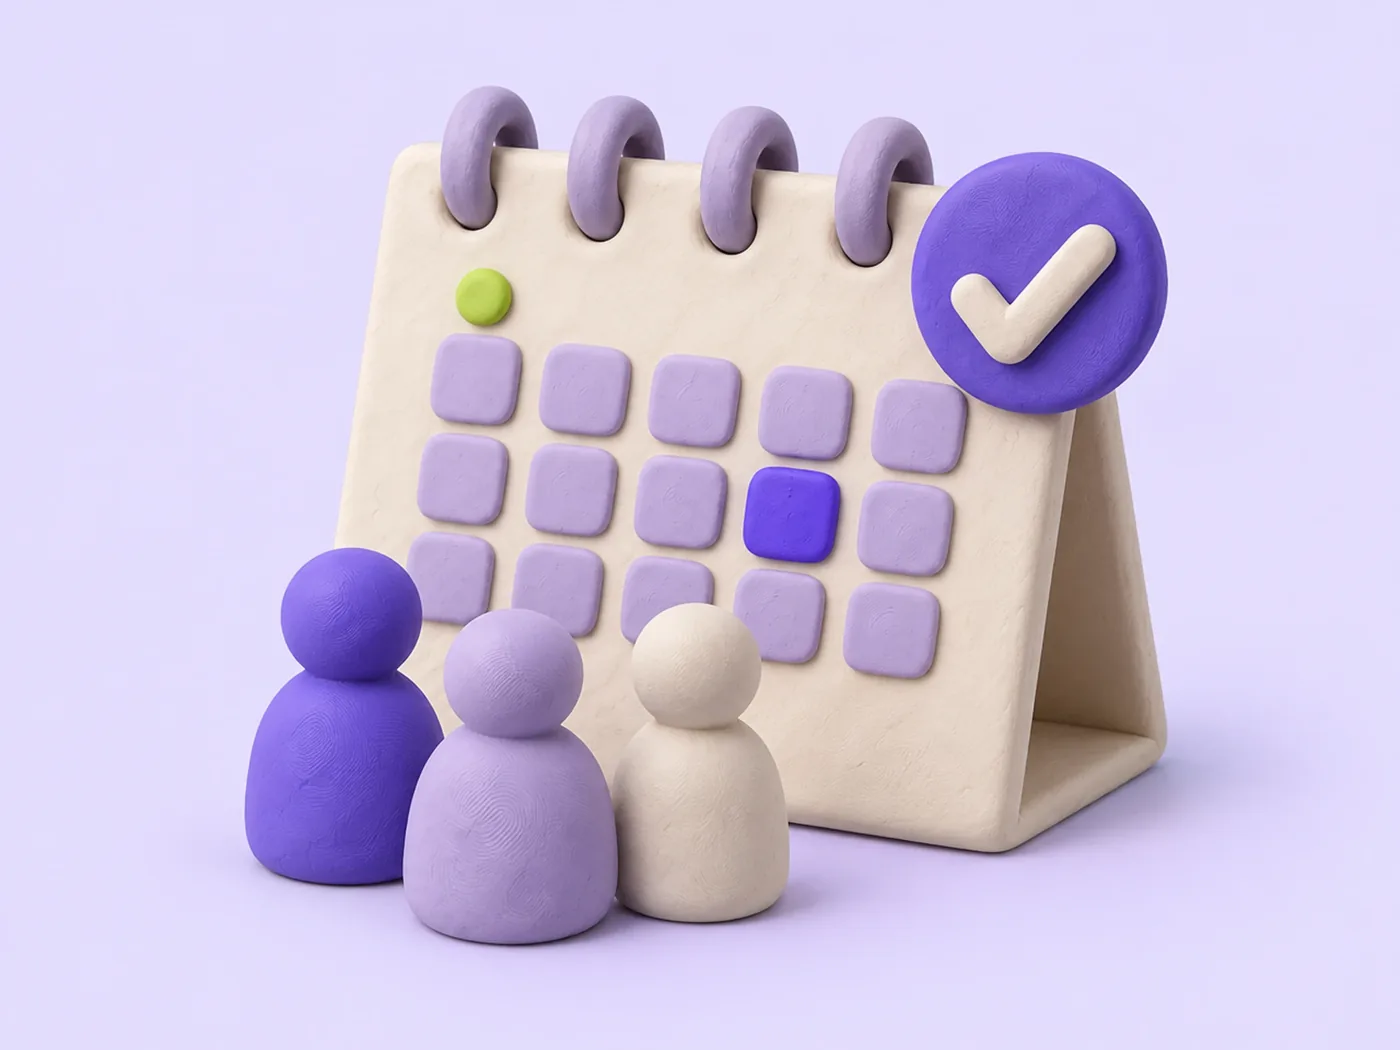
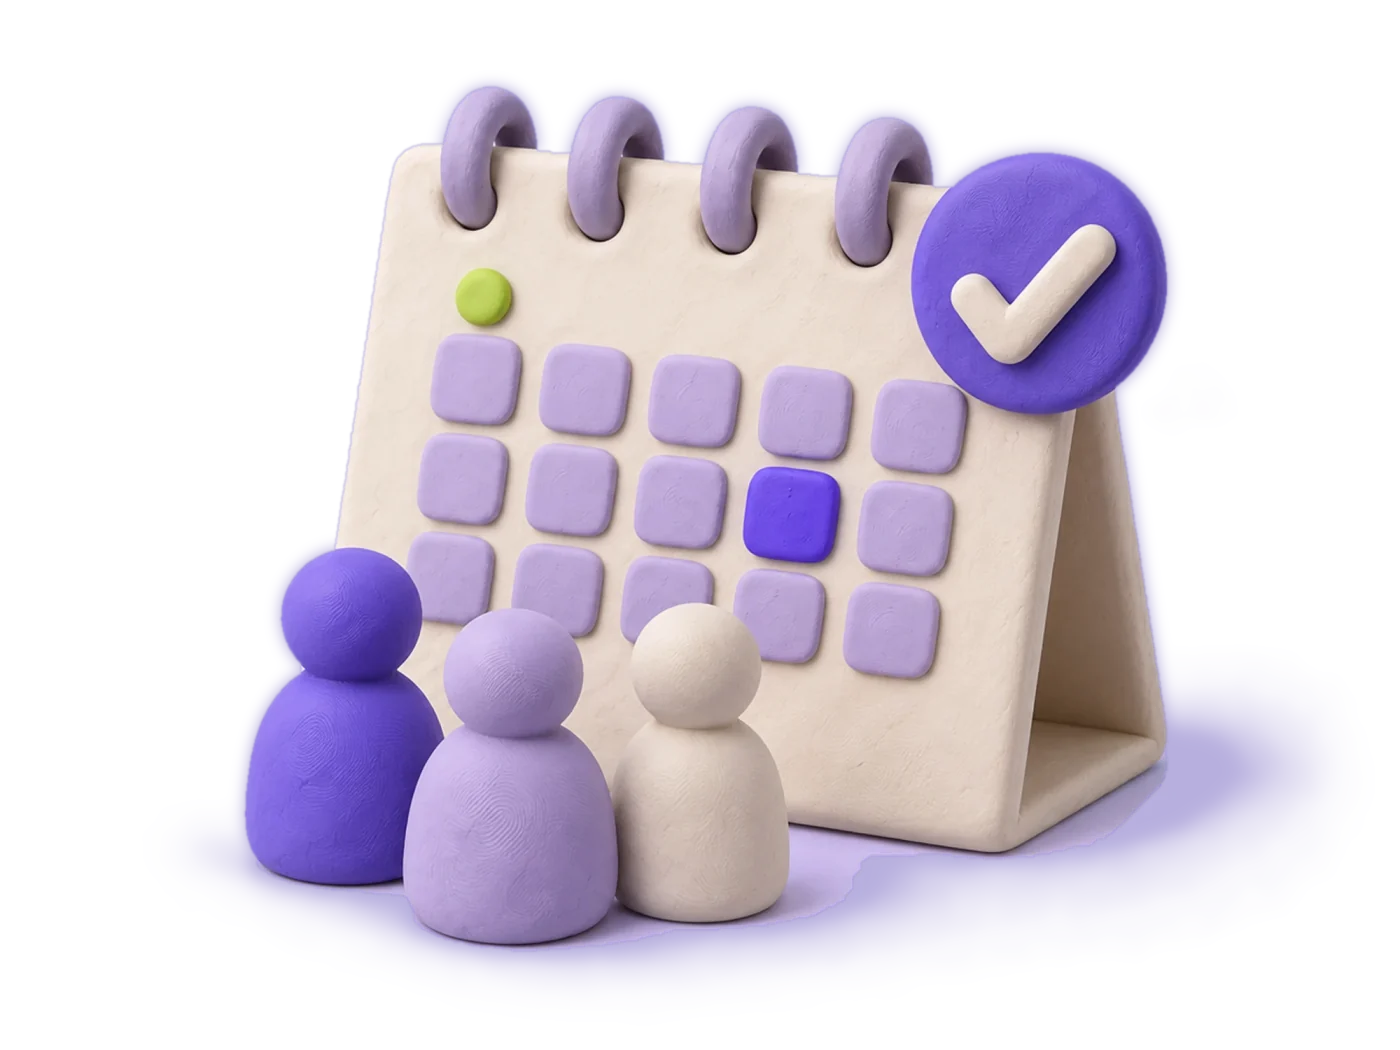
Benefit illustrations: transparent backgrounds, soft violet shadow kept
Claude-Session: https://claude.ai/code/session_01TK4tVEFy2kimshfdQLoBs3

diff --git a/src/components/sections/BenefitsSection.tsx b/src/components/sections/BenefitsSection.tsx
@@ -4,7 +4,7 @@ import { benefits } from "@/content";
 
 /**
  * One 3D clay render per card, in the order of `benefits` in content/sections.ts (check-in, payment, who's coming,
- * numbers). Files live in public/illustrations, 1400 x 1050 WebP on a lavender backdrop, shown as a rounded tile.
+ * numbers). Files live in public/illustrations, 1400 x 1050 WebP with a transparent background (a soft contact shadow is kept), so they sit straight on the card.
  */
 const ART = [
   { src: "/illustrations/benefit-checkin.webp", width: 1400, height: 1050 },
@@ -25,7 +25,7 @@ export function BenefitsSection() {
                 <h3 className="text-[28px] font-extrabold leading-tight tracking-[-.02em]">{b.title}</h3>
                 <p className="mt-3 max-w-md text-[17px] leading-snug text-ink-muted">{b.line}</p>
                 <div className="mt-6 flex flex-1 items-end">
-                  <Image {...ART[i]} alt="" sizes="(min-width: 1024px) 560px, (min-width: 640px) 45vw, 100vw" className="h-auto w-full rounded-[24px]" />
+                  <Image {...ART[i]} alt="" sizes="(min-width: 1024px) 560px, (min-width: 640px) 45vw, 100vw" className="h-auto w-full" />
                 </div>
               </Box>
             </li>

diff --git a/docs/progress/0064-2026-11-26-benefit-illustrations.md b/docs/progress/0064-2026-11-26-benefit-illustrations.md
@@ -2,5 +2,5 @@
 
 The four 3D clay renders supplied (QR check-in with a dumbbell, a zip wallet with a card and coins, a calendar with three figures, a growth chart with a ring) are now the benefit cards' art, in the order of the cards: Check members in, Take payment any way, See who's coming, Know your numbers.
 - Converted to WebP at 1400 x 1050, quality 82 (34-42 KB each): `public/illustrations/benefit-{checkin,payment,roster,numbers}.webp`.
-- The renders sit on their own lavender backdrop, so they show as rounded tiles filling the card (no `mix-blend-multiply` or white-background trick any more); Next.js now serves them responsively.
+- The renders came on a lavender backdrop, which is now removed: each is a transparent-background WebP (alpha), 76-82 KB. The clay objects are cut out; the soft floor shadow is kept but redrawn as a transparent violet shadow so it sits on the card colour. They sit straight on the card (no tile, no blend trick); Next.js serves them responsively.
 - The four older white-background illustrations (`checkin`, `payment`, `roster`, `control`) are removed; `checkin-clear.webp` (support hub) is untouched.
